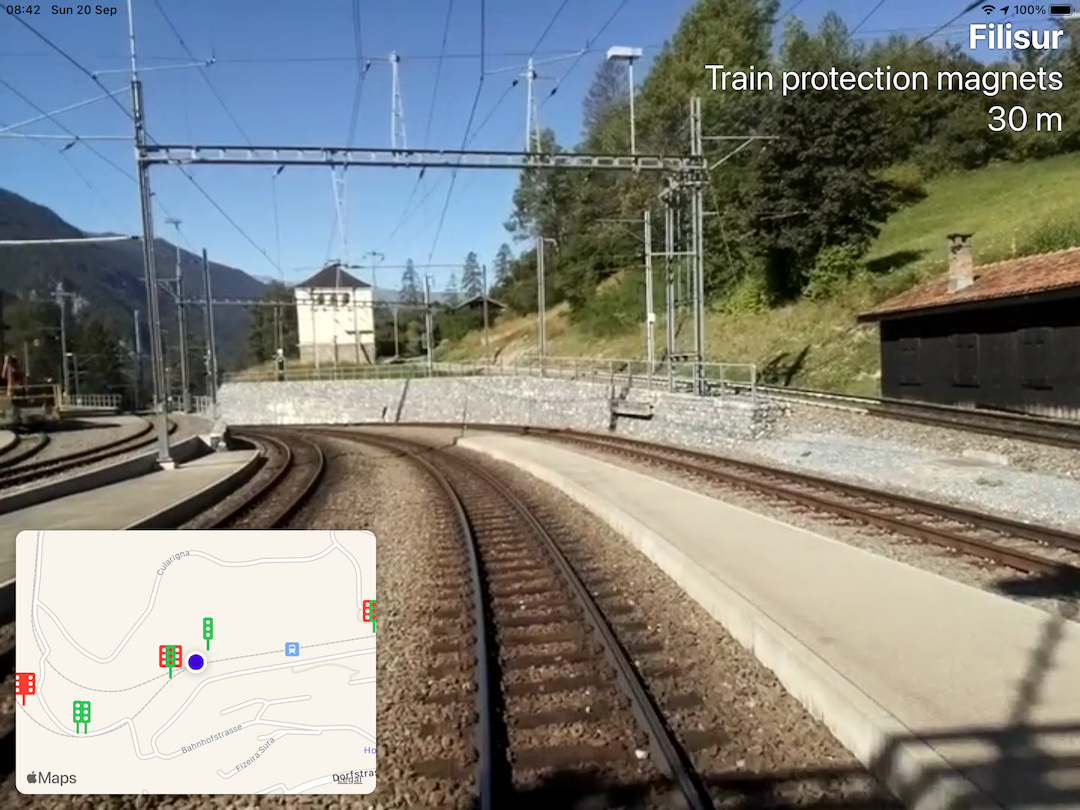
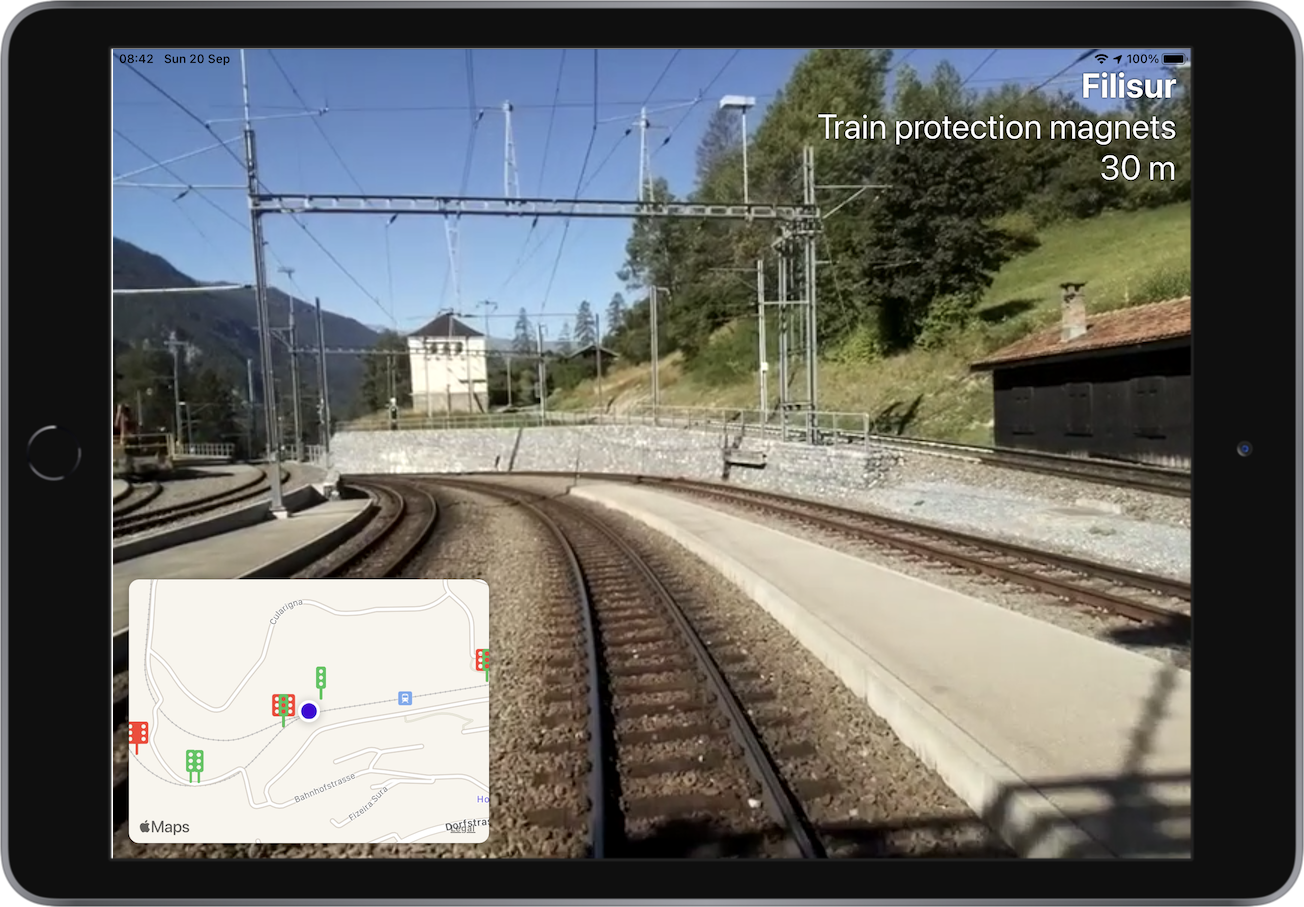
Update comments and screenshot

diff --git a/LiftVeil/ContentView.swift b/LiftVeil/ContentView.swift
@@ -11,55 +11,10 @@ import MapKit
 import SwiftUI
 
 struct ContentView: View {
-    @StateObject var locationModel = LocationModel.shared
+    @StateObject private var locationModel = LocationModel()
     @State private var player = AVPlayer(url: Bundle.main.url(forResource: "movie", withExtension: "mp4")!)
-    @State private var mapRegion = MKCoordinateRegion(
-        center: CLLocationCoordinate2D(),
-        latitudinalMeters: 500, longitudinalMeters: 500
-    )
+    @State private var mapRegion = MKCoordinateRegion()
     @State private var nearestSignal: Signal?
-
-    var map: some View {
-        Map(coordinateRegion: $mapRegion, showsUserLocation: true, annotationItems: TrackData.site.signals) { signal in
-            MapAnnotation(coordinate: signal.location?.coordinate ?? CLLocationCoordinate2D(), anchorPoint: CGPoint(x: 0.5, y: 1)) {
-                if signal.elementType.contains("istant") {
-                    Image("distantsignal").foregroundColor(.red)
-                } else {
-                    Image("mainsignal").foregroundColor(.green)
-                }
-            }
-        }
-        .animation(.default)
-        .id("map")
-    }
-
-    var movie: some View {
-        ZStack(alignment: .topTrailing) {
-            VideoPlayer(player: player)
-                .frame(maxWidth: .infinity, maxHeight: .infinity)
-                .navigationTitle("Lift the Veil")
-            hud
-        }.id("movie")
-    }
-
-    @ViewBuilder var hud: some View {
-        if let signal = nearestSignal {
-            VStack(alignment: .trailing) {
-                Text(signal.locationName).bold()
-                Text(signal.elementType)
-                if
-                    let signalLocation = signal.location,
-                    let distance = locationModel.location?.distance(from: signalLocation)
-                {
-                    Text("\(distance: distance)")
-                }
-            }
-            .font(.largeTitle)
-            .foregroundColor(.white)
-            .shadow(color: .black, radius: 1)
-            .padding()
-        }
-    }
 
     var body: some View {
         GeometryReader { geometry in
@@ -103,7 +58,51 @@ struct ContentView: View {
         .onAppear {
             player.play()
         }
-        .navigationViewStyle(StackNavigationViewStyle())
+    }
+
+    /// The map displaying current positions and signal pins
+    var map: some View {
+        Map(coordinateRegion: $mapRegion, showsUserLocation: true, annotationItems: TrackData.site.signals) { signal in
+            MapAnnotation(coordinate: signal.location?.coordinate ?? CLLocationCoordinate2D(), anchorPoint: CGPoint(x: 0.5, y: 1)) {
+                // Pick the appropriate pin
+                if signal.elementType.contains("istant") {
+                    Image("distantsignal").foregroundColor(.red)
+                } else {
+                    Image("mainsignal").foregroundColor(.green)
+                }
+            }
+        }
+        .animation(.default)
+        .id("map")
+    }
+
+    /// The good-weather movie that we'll synchronize with the train's actual position and speed
+    var movie: some View {
+        ZStack(alignment: .topTrailing) {
+            VideoPlayer(player: player)
+                .frame(maxWidth: .infinity, maxHeight: .infinity)
+            hud
+        }.id("movie")
+    }
+
+    /// A HUD (head-up display) to show the closest/next signal
+    @ViewBuilder var hud: some View {
+        if let signal = nearestSignal {
+            VStack(alignment: .trailing) {
+                Text(signal.locationName).bold()
+                Text(signal.elementType)
+                if
+                    let signalLocation = signal.location,
+                    let distance = locationModel.location?.distance(from: signalLocation)
+                {
+                    Text("\(distance: distance)")
+                }
+            }
+            .font(.largeTitle)
+            .foregroundColor(.white)
+            .shadow(color: .black, radius: 1)
+            .padding()
+        }
     }
 }
 

diff --git a/LiftVeil/TrackData.swift b/LiftVeil/TrackData.swift
@@ -9,6 +9,7 @@
 import CoreLocation
 import Foundation
 
+/// The track data provided as JSON, contains geocoded signal elements.
 struct TrackData: Codable {
     let signals: [Signal]
 
@@ -17,6 +18,7 @@ struct TrackData: Codable {
     }
 }
 
+/// Represents a signal element in the dataset
 struct Signal: Codable, Identifiable {
     let id: String
     let elementType: String
@@ -39,13 +41,7 @@ struct Signal: Codable, Identifiable {
 }
 
 extension Signal {
-    var coordinate: CLLocationCoordinate2D? {
-        guard let latitude = latitude, let longitude = longitude else {
-            return nil
-        }
-        return CLLocationCoordinate2D(latitude: latitude, longitude: longitude)
-    }
-
+    /// Creates the CoreLocation location of this signal
     var location: CLLocation? {
         guard let latitude = latitude, let longitude = longitude else {
             return nil
@@ -55,12 +51,15 @@ extension Signal {
 }
 
 extension TrackData {
+    /// Bundled data fixture
     static let site: TrackData = {
         try! JSONDecoder()
             .decode(TrackData.self, from: Data(contentsOf:
                 Bundle.main.url(forResource: "TrackSiteData_2020_clean", withExtension: "json")!))
     }()
 
+    /// Finds the nearest Signal to a location
+    // TODO: Must be optimized for production
     func nearest(to location: CLLocation) -> Signal? {
         Self.site.signals.min {
             ($0.location?.distance(from: location) ?? .infinity)
